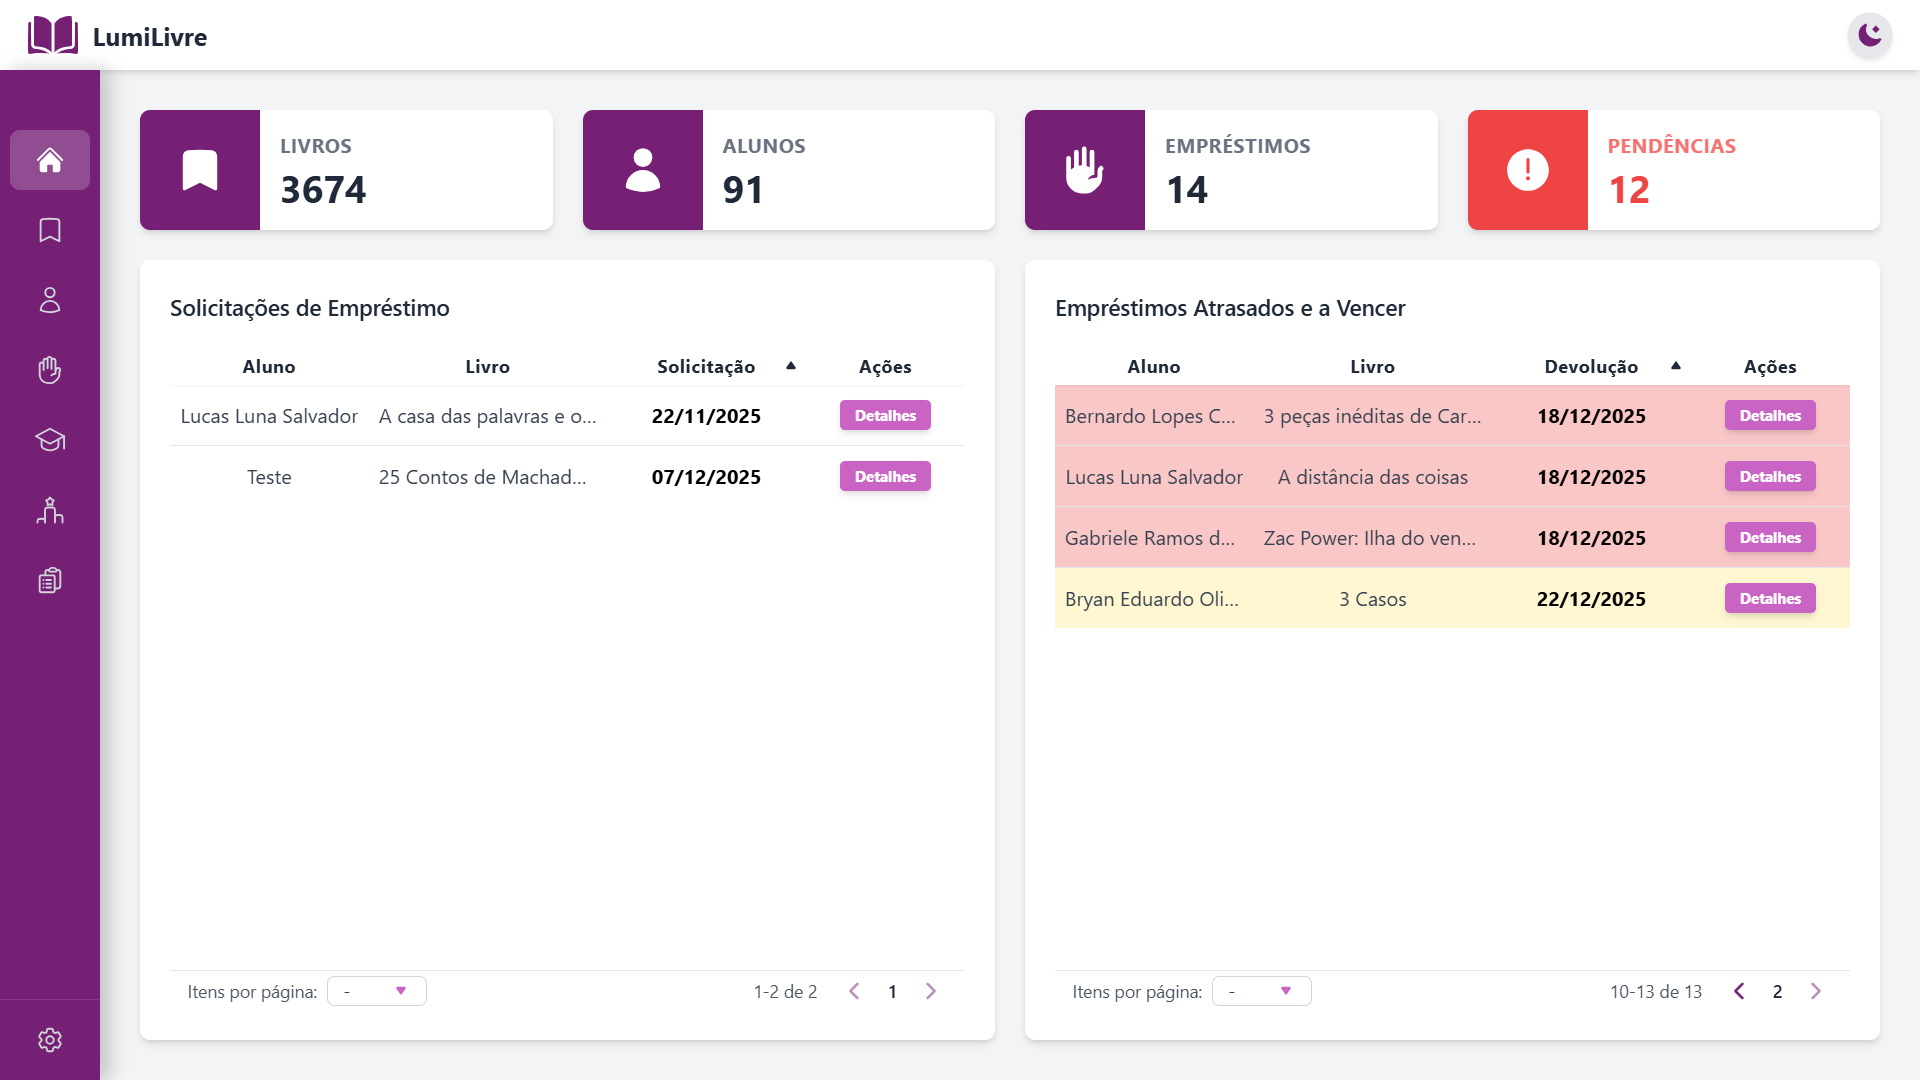
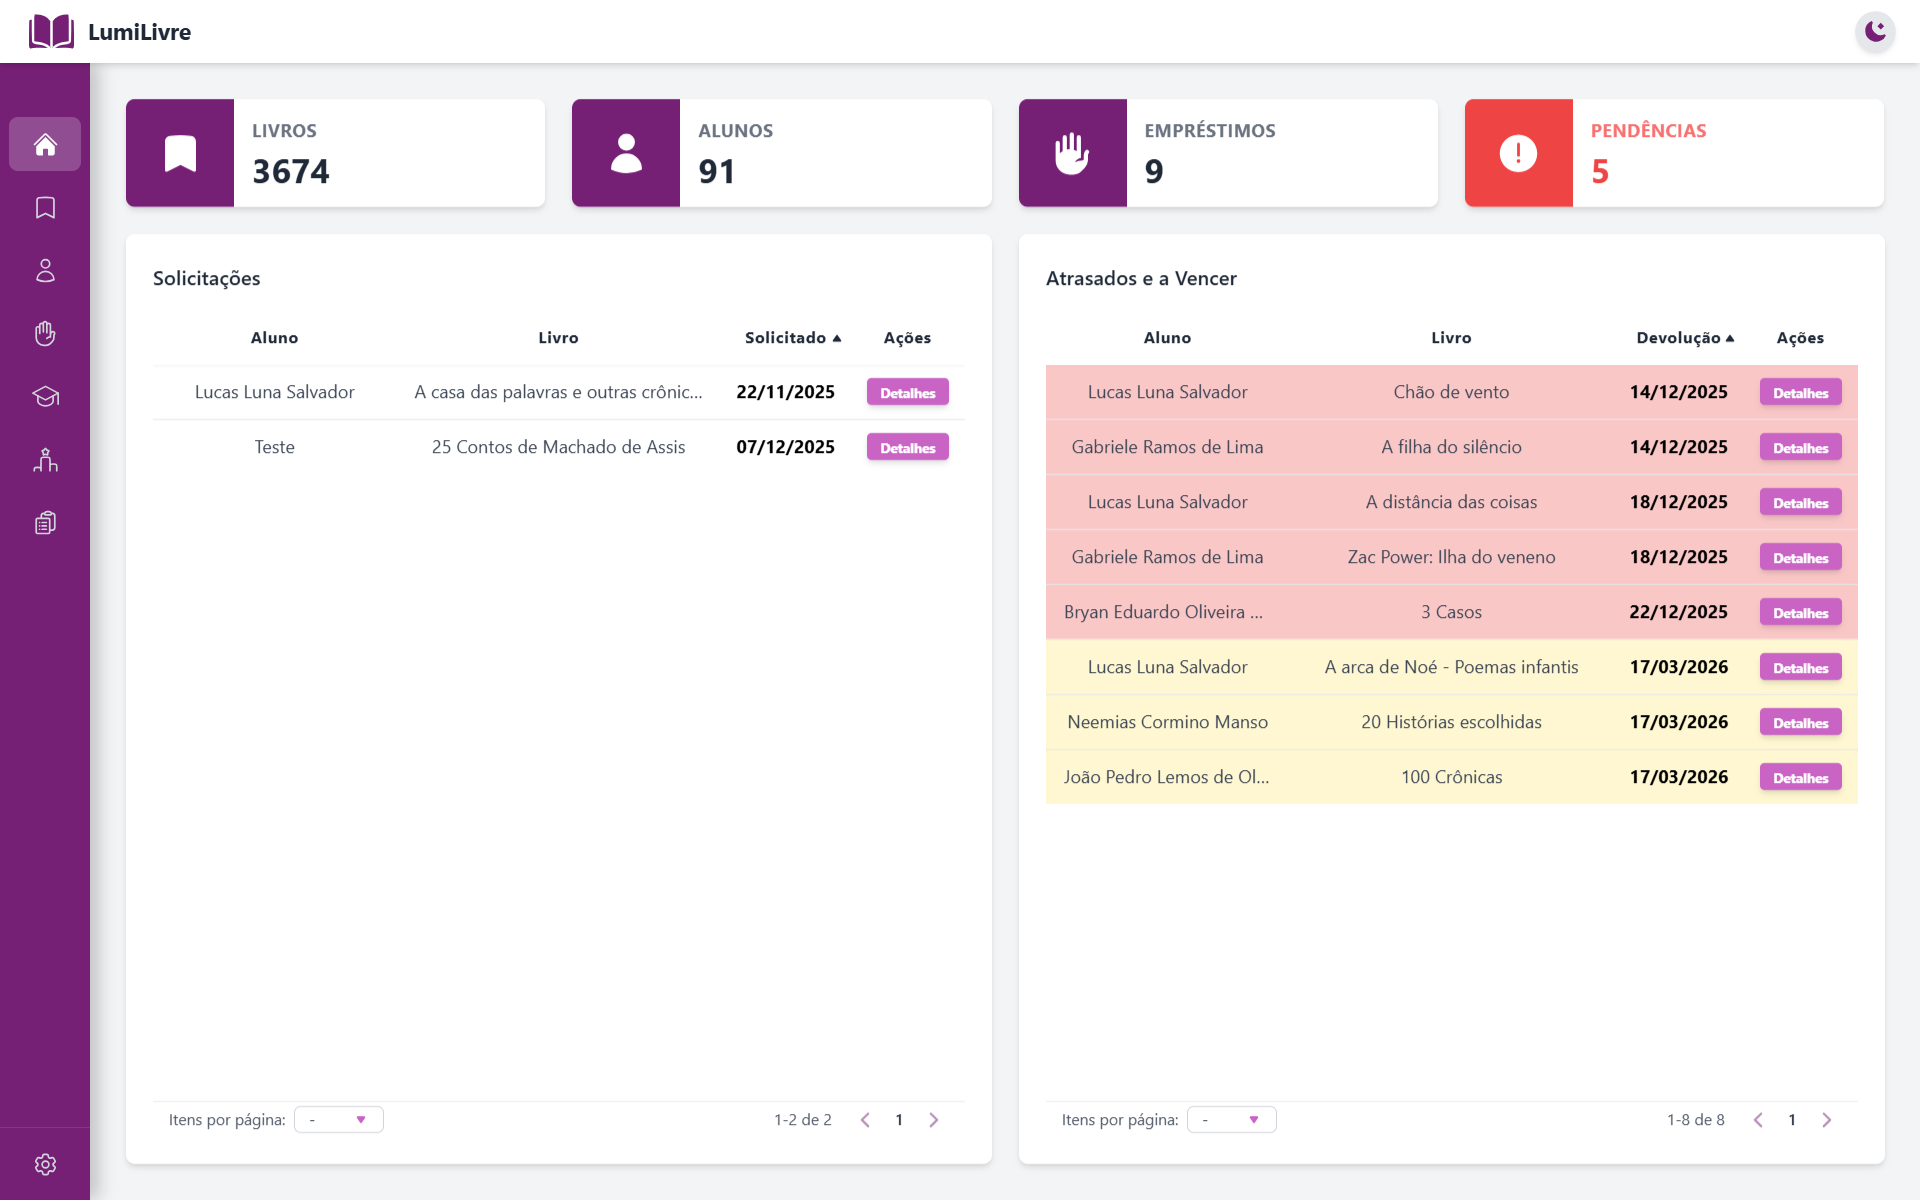
update: add more prints application

diff --git a/README.md b/README.md
@@ -27,8 +27,16 @@ A aplicação foi construída com foco em produtividade, utilizando **TailwindCS
 </div>
 
 <div align="center">
-  <img src="src/assets/images/prints/login.png" width="45%" alt="Dashboard" style="border-radius: 10px; margin: 5px;">
-  <img src="src/assets/images/prints/dashboard.png" width="45%" alt="Livros" style="border-radius: 10px; margin: 5px;">
+  <img src="src/assets/images/prints/login.png" width="45%" alt="Login" style="border-radius: 10px; margin: 5px;">
+  <img src="src/assets/images/prints/dashboard.png" width="45%" alt="Dashboard" style="border-radius: 10px; margin: 5px;">
+</div>
+<div align="center">
+  <img src="src/assets/images/prints/books_dark-new.png" width="45%" alt="Livros (Modo: Dark)" style="border-radius: 10px; margin: 5px;">
+  <img src="src/assets/images/prints/exemples_dark.png" width="45%" alt="Livros - Criar Novo (Modo: Dark)" style="border-radius: 10px; margin: 5px;">
+</div>
+<div align="center">
+  <img src="src/assets/images/prints/students.png" width="45%" alt="Alunos" style="border-radius: 10px; margin: 5px;">
+  <img src="src/assets/images/prints/students-details.png" width="45%" alt="Alunos - Botão Detalhes" style="border-radius: 10px; margin: 5px;">
 </div>
 
 <br/>
